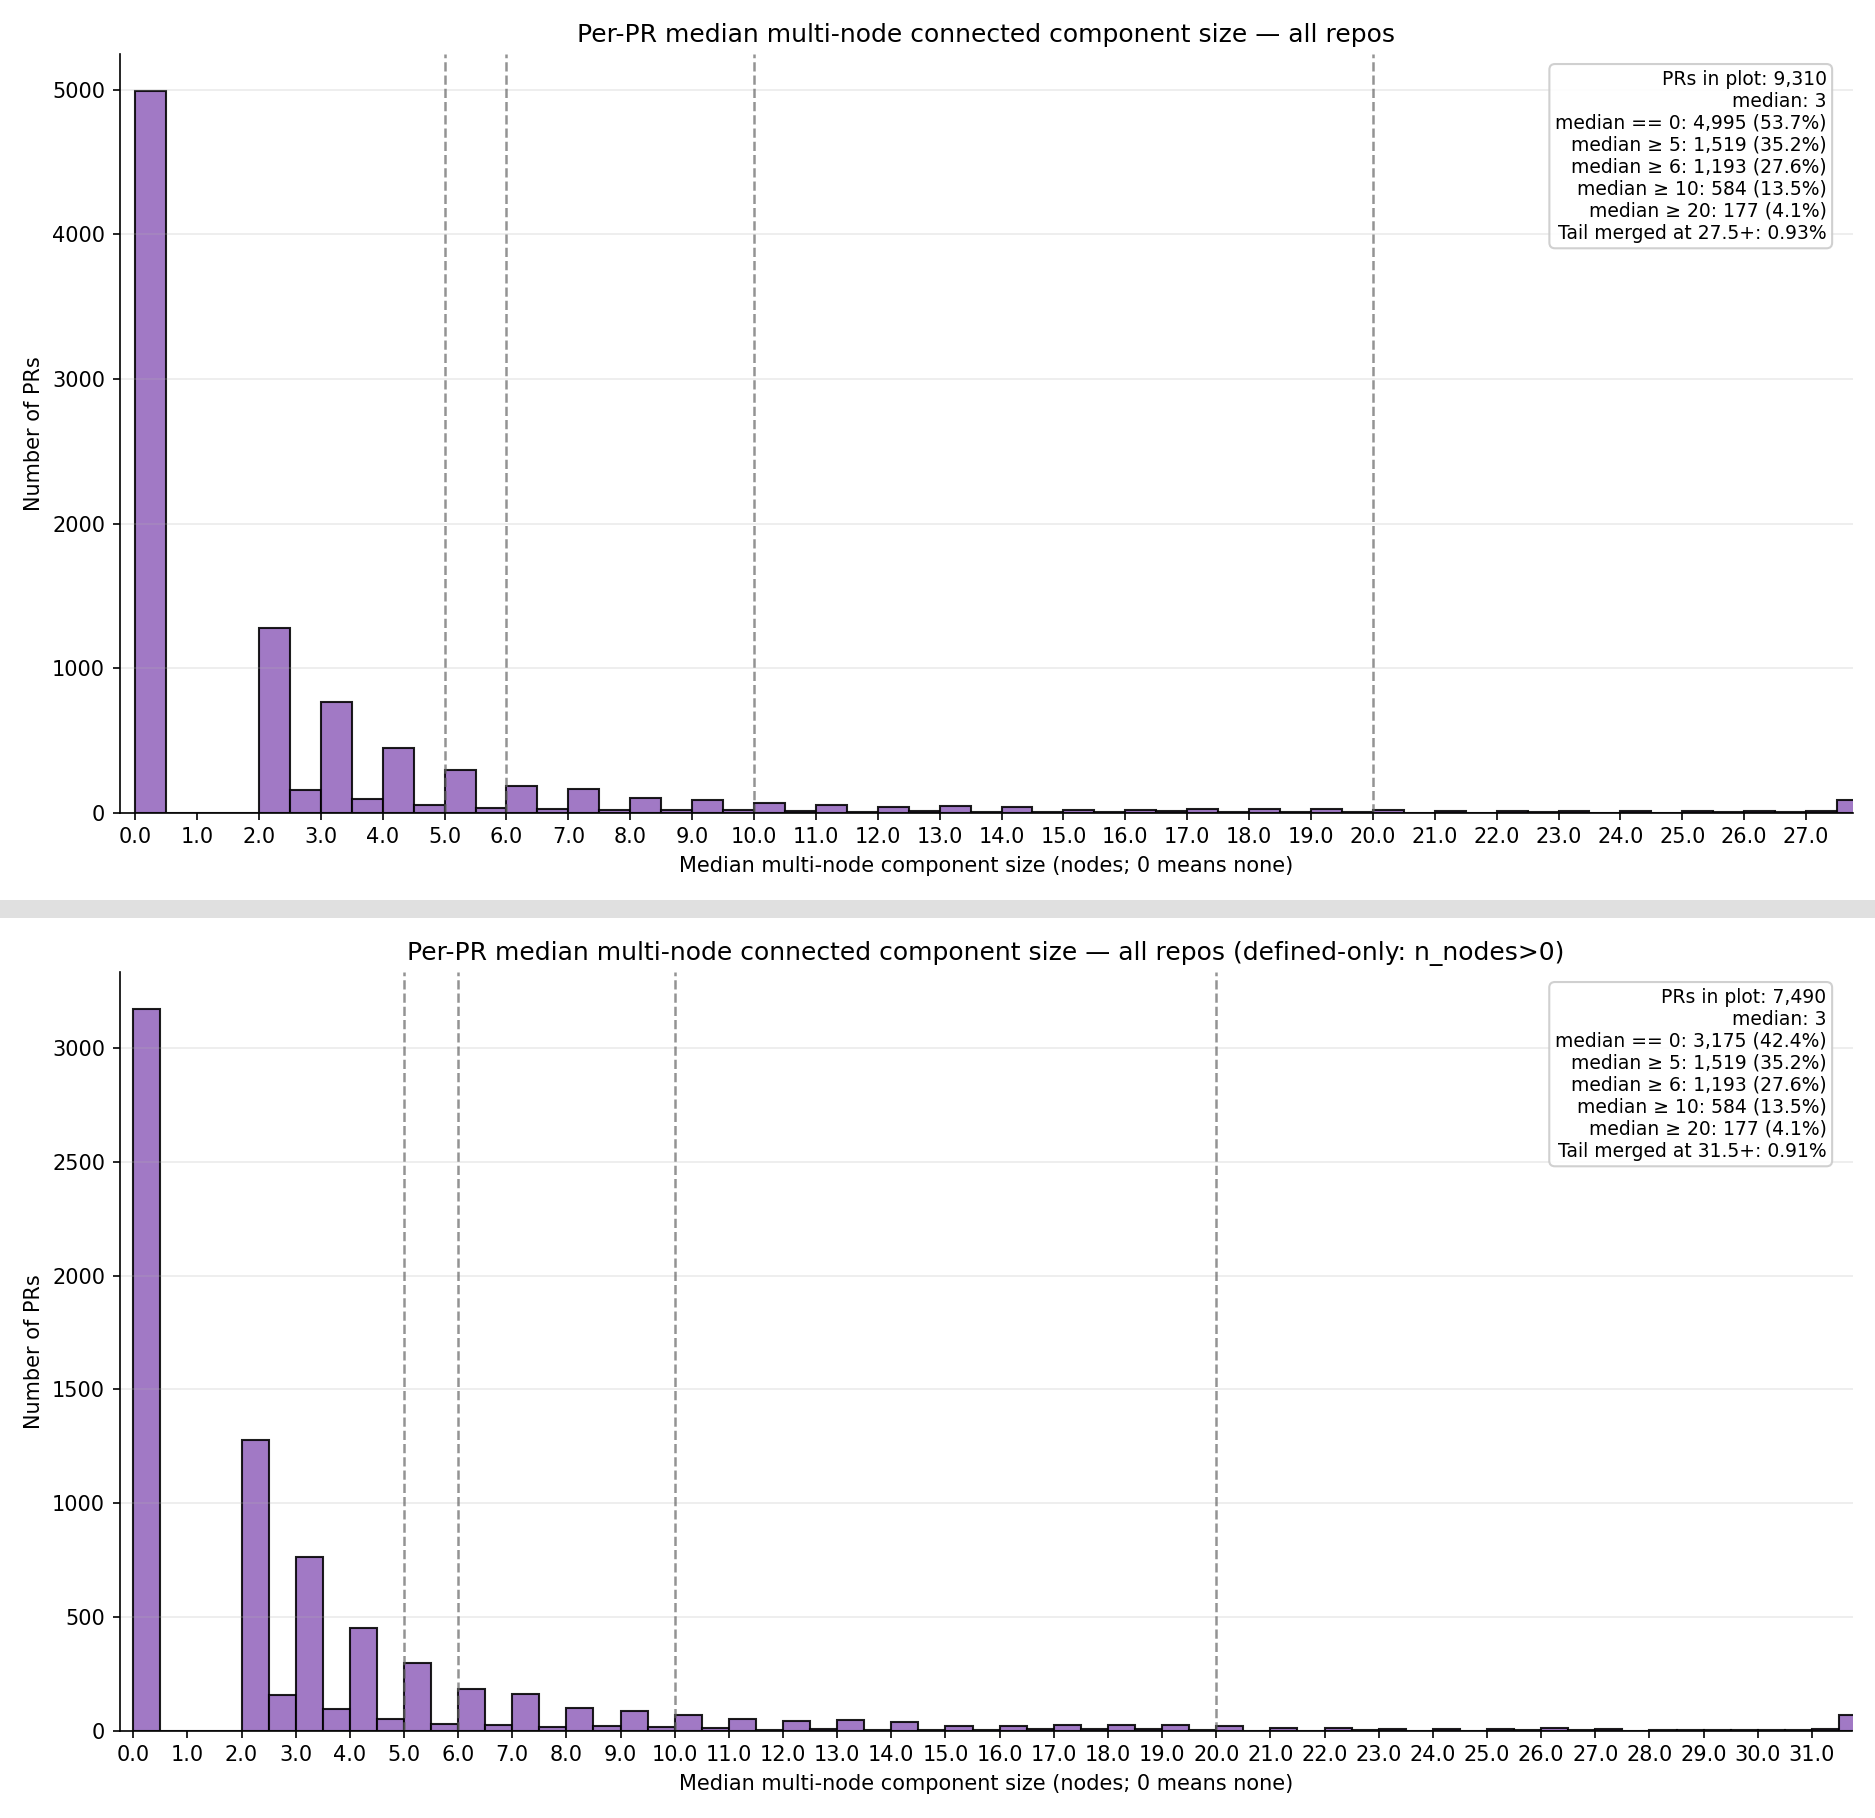
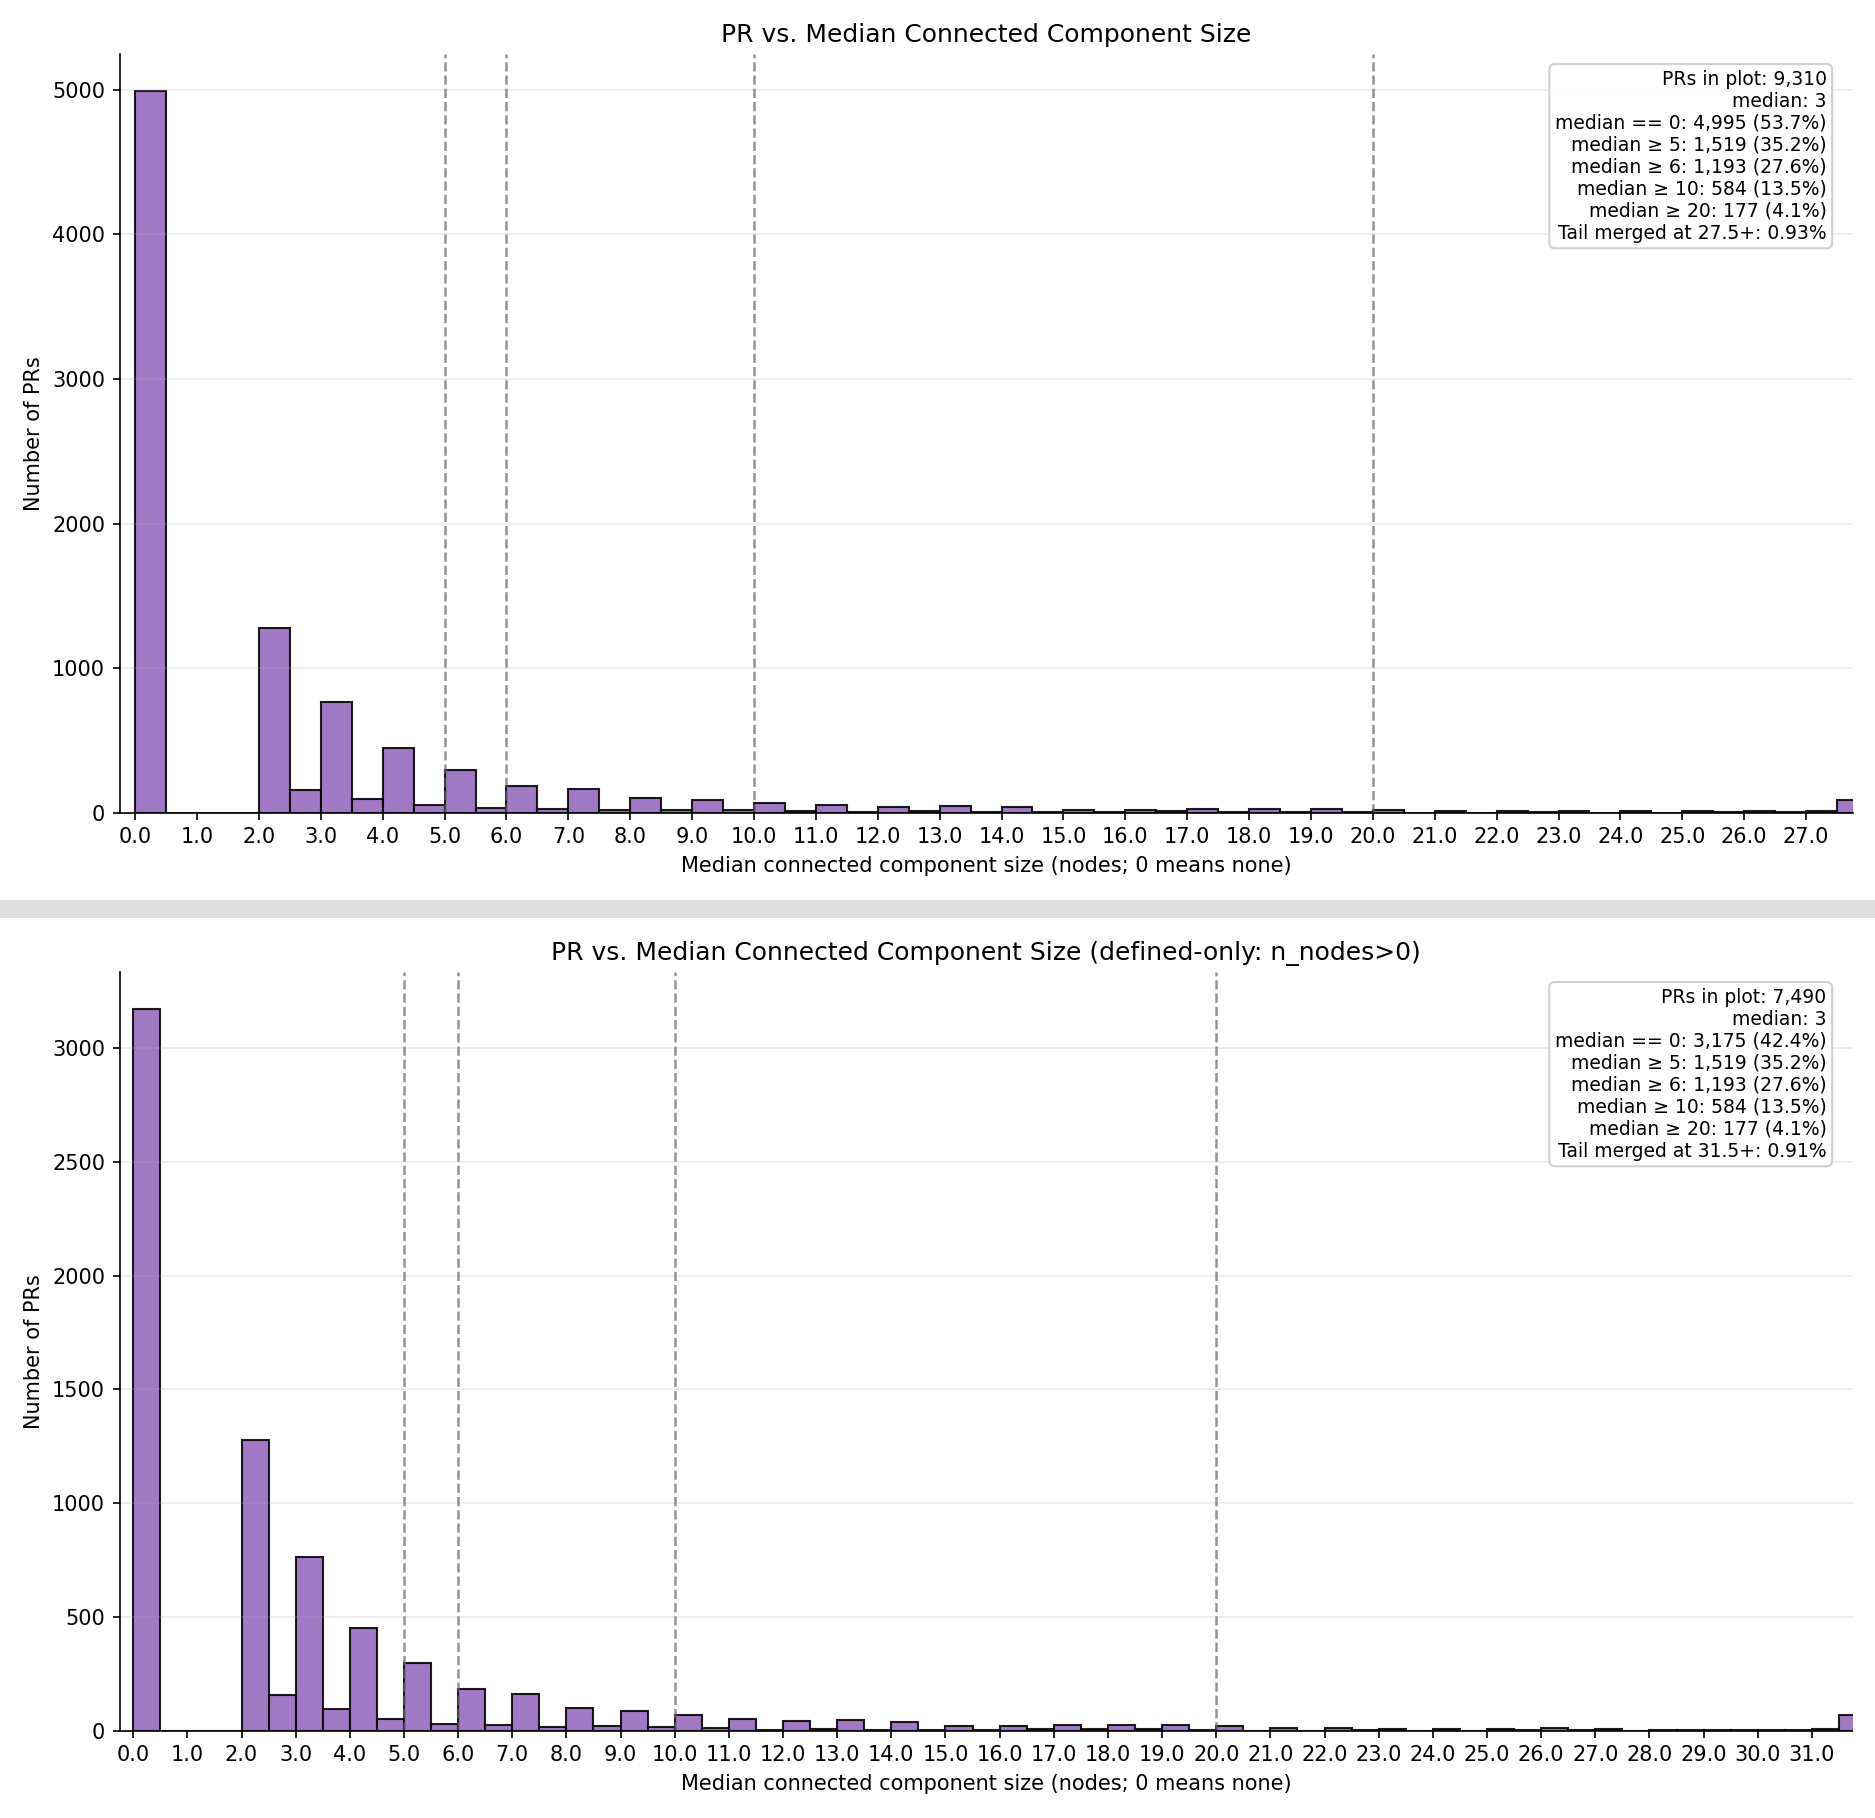
refactor: clean up plot titles and lables

diff --git a/scripts/plot_all_repos_median_component.py b/scripts/plot_all_repos_median_component.py
@@ -1,10 +1,10 @@
 #!/usr/bin/env python3
-"""Plot per-PR median multi-node component size across PRs.
+"""Plot per-PR median component size across PRs.
 
 We exclude singletons from the metric by construction:
-- For a PR with >=1 multi-node connected component (size >= 2),
+- For a PR with >=1 connected component (size >= 2),
   value = median(connected_component_sizes).
-- Otherwise (no multi-node components, including n_nodes==0),
+- Otherwise (no connected components, including n_nodes==0),
   value = 0.
 
 --defined-only drops PRs with n_nodes==0.
@@ -47,7 +47,7 @@ DEFAULT_OUT_DEFINED_ONLY = (
 
 
 def build_parser() -> argparse.ArgumentParser:
-    p = argparse.ArgumentParser(description="Median multi-node component size across PRs.")
+    p = argparse.ArgumentParser(description="Median connected component size across PRs.")
     p.add_argument("--stats", type=Path, default=DEFAULT_IN, help="Connectivity JSON path")
     p.add_argument("--out", type=Path, default=DEFAULT_OUT, help="Output PNG path")
     p.add_argument(
@@ -130,10 +130,10 @@ def main() -> None:
     ax.hist(clipped2, bins=bins, edgecolor="black", alpha=0.88, color="tab:purple")
 
     ax.set_xlim(-X_AXIS_PAD, x_hi2 + X_AXIS_PAD)
-    ax.set_xlabel("Median multi-node component size (nodes; 0 means none)")
+    ax.set_xlabel("Median connected component size (nodes; 0 means none)")
     ax.set_ylabel("Number of PRs")
     ax.set_title(
-        "Per-PR median multi-node connected component size — all repos"
+        "PR vs. Median Connected Component Size"
         + (" (defined-only: n_nodes>0)" if args.defined_only else "")
     )
 

diff --git a/scripts/plot_all_repos_largest_component.py b/scripts/plot_all_repos_largest_component.py
@@ -1,10 +1,10 @@
 #!/usr/bin/env python3
-"""Plot largest multi-node connected-component size per PR.
+"""Plot largest connected-component size per PR.
 
 We exclude singletons from the metric by construction:
-- If a PR has >=1 multi-node connected component (size >= 2),
+- If a PR has >=1 connected component (size >= 2),
   largest = max(connected_component_sizes).
-- Otherwise (no multi-node components, including n_nodes==0),
+- Otherwise (no connected components, including n_nodes==0),
   largest = 0.
 
 Two variants are supported:
@@ -45,7 +45,7 @@ DEFAULT_OUT_DEFINED_ONLY = (
 
 
 def build_parser() -> argparse.ArgumentParser:
-    p = argparse.ArgumentParser(description="Largest multi-node component size across PRs.")
+    p = argparse.ArgumentParser(description="Largest connected component size across PRs.")
     p.add_argument("--stats", type=Path, default=DEFAULT_IN, help="Connectivity JSON path")
     p.add_argument("--out", type=Path, default=DEFAULT_OUT, help="Output PNG path")
     p.add_argument(
@@ -126,10 +126,10 @@ def main() -> None:
     ax.hist(clipped, bins=bins, edgecolor="black", alpha=0.88, color="tab:blue")
 
     ax.set_xlim(-X_AXIS_PAD, x_hi + X_AXIS_PAD)
-    ax.set_xlabel("Largest multi-node component size (nodes; 0 means none)")
+    ax.set_xlabel("Largest connected component size (nodes; 0 means none)")
     ax.set_ylabel("Number of PRs")
     ax.set_title(
-        "Largest multi-node connected component size — all repos"
+        "PR vs. Largest Connected Component Size"
         + (" (defined-only: n_nodes>0)" if args.defined_only else "")
     )
 

diff --git a/scripts/plot_all_repos_component_count.py b/scripts/plot_all_repos_component_count.py
@@ -1,6 +1,6 @@
 #!/usr/bin/env python3
 """
-Plot distribution of the number of multi-node connected components per PR.
+Plot distribution of the number of connected components per PR.
 
 Metric:
   connected_component_count = number of connected components with size >= 2
@@ -38,7 +38,7 @@ DEFAULT_OUT_DEFINED_ONLY = (
 
 def build_parser() -> argparse.ArgumentParser:
     p = argparse.ArgumentParser(
-        description="Plot connected_component_count (multi-node components) across all PRs."
+        description="Plot connected_component_count  across all PRs."
     )
     p.add_argument("--stats", type=Path, default=DEFAULT_IN, help="Connectivity JSON path")
     p.add_argument("--out", type=Path, default=DEFAULT_OUT, help="Output PNG path")
@@ -102,10 +102,10 @@ def main() -> None:
     ax.hist(clipped, bins=bins, edgecolor="black", alpha=0.88, color="tab:blue")
 
     ax.set_xlim(-X_AXIS_PAD, x_hi + X_AXIS_PAD)
-    ax.set_xlabel("Number of multi-node connected components per PR (size ≥ 2)")
+    ax.set_xlabel("Number of connected components per PR (size ≥ 2)")
     ax.set_ylabel("Number of PRs")
     ax.set_title(
-        "Connected components per PR — all repos"
+        "PR vs. Connected Component Count"
         + (" (defined-only: n_nodes>0)" if args.defined_only else "")
     )
 

diff --git a/scripts/plot_all_repos_histograms.py b/scripts/plot_all_repos_histograms.py
@@ -216,7 +216,7 @@ def plot_fn_class_broken(
         series, bins=bin_edges, edgecolor='black', alpha=0.85, color='tab:orange'
     )
 
-    ax.set_title(f"Fn/class added/modified — {title}")
+    ax.set_title("PR vs. Func/Class")
     ax.set_ylabel('PRs')
 
     xlabel = 'Fn/class added/modified'
@@ -320,6 +320,8 @@ def plot_histogram(
     ax = fig.axes[0] if fig.axes else None
     if ax is not None:
         ax.set_ylabel('PRs')
+        if 'pyfile' in label_kind:
+            ax.set_title("PR vs Files")
         # The render() functions prepend their own text; we pass a short suffix.
         # Keep x-labels short and consistent across aggregate plots.
         if 'pyfile' in label_kind:

diff --git a/scripts/plot_all_repos_connectivity.py b/scripts/plot_all_repos_connectivity.py
@@ -100,7 +100,7 @@ def main() -> None:
     ax.set_xlabel("CPR (nodes in connected components / total changed nodes)")
     ax.set_ylabel("Number of PRs")
     title_suffix = " (defined-only: n_nodes>0)" if args.defined_only else ""
-    ax.set_title(f"PR connectivity participation (CPR) — all repos{title_suffix}")
+    ax.set_title(f"PR vs. Connectivity Participation Ratio (CPR){title_suffix}")
 
     for x, color in ((0.5, "tab:orange"), (0.8, "tab:red")):
         ax.axvline(x, color=color, linestyle="--", linewidth=1.5, alpha=0.9)

diff --git a/README.md b/README.md
@@ -16,17 +16,17 @@
 
 ---
 
-3) PR vs. Component Count
+3) PR vs. Connected Component Count
 
 ![PR vs. Component Count](./viz_output_all_repos/all_repos_pr_component_count_histogram_merged.png)
 
 ---
 
 
-4) PR vs. Largest Component Size 
+4) PR vs. Largest Connected Component Size 
 ![PR vs. Largest Component Size](./viz_output_all_repos/all_repos_pr_largest_component_histogram_merged.png)
 
 --- 
 
-5) PR vs. Median Component Size
+5) PR vs. Median Connected Component Size
 ![PR vs. Median Component Size](./viz_output_all_repos/all_repos_pr_median_component_histogram_merged.png)
